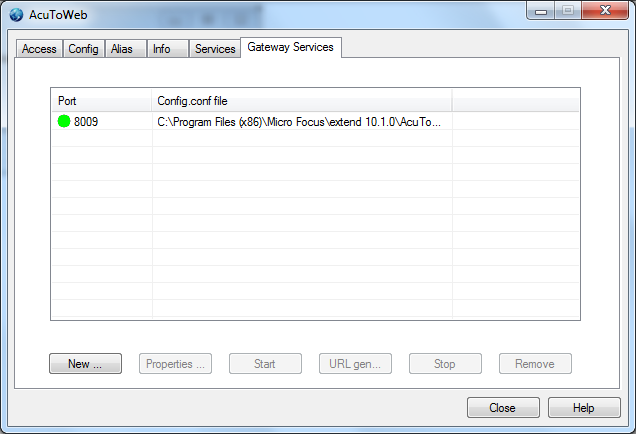
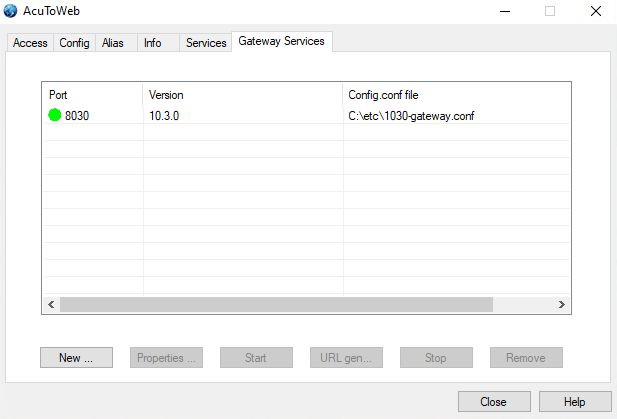
10.3.0 Updates

Changed region(s): [[0.0, 0.0, 1.0, 1.0], [0.0616, 0.1862, 0.9238, 0.7446]]

diff --git a/docs/AcuToWeb-WINDOWS.md b/docs/AcuToWeb-WINDOWS.md
@@ -8,7 +8,7 @@ The AcuToWeb Gateway provides a method where the client specifies an AcuConnect 
 
 **Configure AcuConnect Thin Client**
 
-Choose the AcuToWeb control panel from the “All Programs” menu. On Windows 10 you will need to right click the extend Start Menu and Run as administrator.
+Choose the AcuToWeb control panel from the “All Programs” menu. On Windows 10 you will need to right click the 'extend' Start Menu item and select 'Run as administrator'.
 
 ![1](images/atw-w-1.png)
 
@@ -34,7 +34,7 @@ Now create the AcuConnect Thin Client service:
 
 The file acurcl.cfg contains the server configuration variables; when the file is first installed, these variables are all commented out. You can also modify this file later.
 
-You should now be able to execute your program via thin client. Under extend 10.1.0 open tools and run the 32-bit runtime system command:
+You should now be able to execute your program via thin client. Under extend 10.3.0 open tools and run the 32-bit runtime system command:
 
 ```
 acuthin localhost alias (acuthin servername alias)
@@ -44,9 +44,19 @@ acuthin localhost alias (acuthin servername alias)
 
 **Configure AcuToWeb**
 
+You need to create a new Gateway Service:
+
+First create your gateway.conf file. An example Gateway configuration file can be found in the documentation (http://bit.ly/36kOeGs). Ammend it to fit your needs and make sure ACURCL_PORT matches the port you selected when you created the AcuConnect service earlier.
+
+Now when you click 'New' in the 'Gateway Services' tab a new window will appear prompting you to load your gateway.conf file. Click 'Browse' then find and select the gateway.conf you just created.
+
+![12](images/atw-w-12.png)
+
+Now Click OK to take you back to the previous window. Select the AcuToWeb service that you just created and click 'Start'. The status should change from red to green to show that it is now running.
+
 ![9](images/atw-w-9.png)
 
-You need to create a new Gateway Service:
+NOTE: Prior to extend 10.3.0 the properties of the service were created directly in the AcuToWeb Control Panel as shown below. This was an intentional change (http://bit.ly/36kJzVc)
 
 ![10](images/atw-w-10.png)
 
